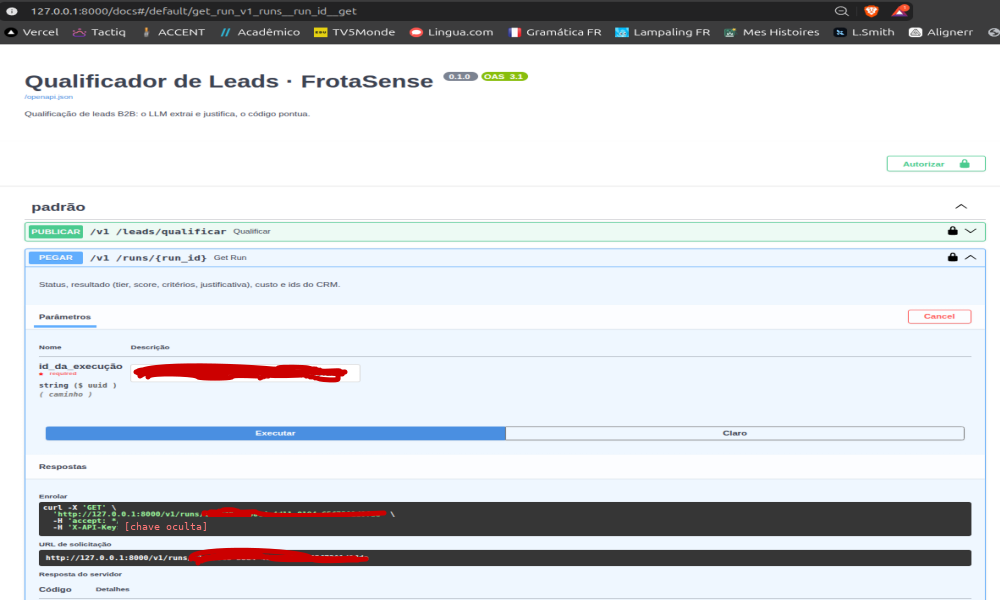
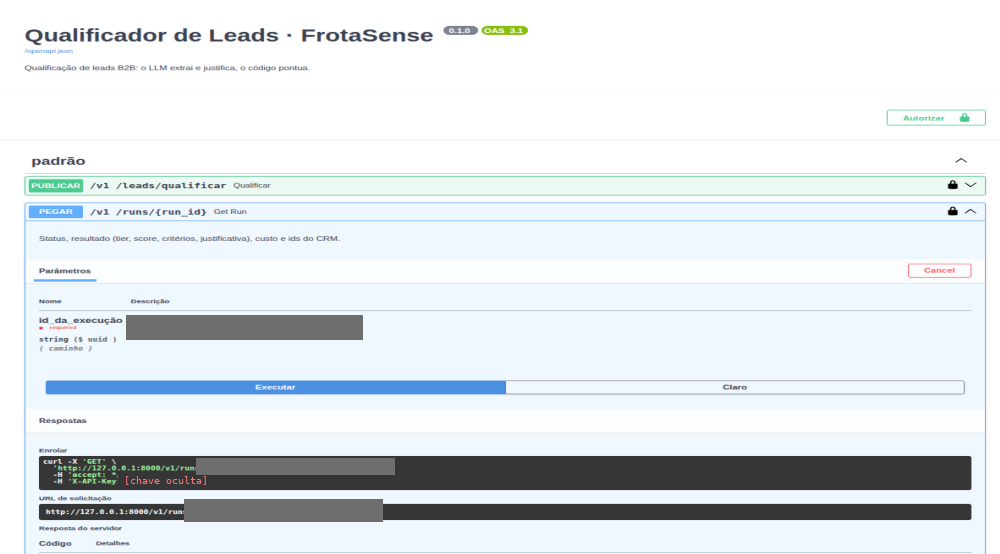
feat(T35): documentação final, imagens recortadas e README testado em clone limpo
Correções da auditoria sobre o DNS rebinding, prints sem hostname, run_id
e IDs do HubSpot, evals/README.md com o aviso do dataset, GIF e
limitações no README e CLAUDE.md apagado. Clone limpo: make check verde
e os 3 comandos do sistema completo funcionando sem gravar no CRM.

Changed region(s): [[0.0, 0.1841, 0.992, 1.0], [0.0, 0.0, 1.0, 0.2148]]

diff --git a/tools_mcp/site.py b/tools_mcp/site.py
@@ -2,8 +2,9 @@
 
 **SSRF:** o domínio vem do lead. Além da validação do `LeadInput`, cada requisição (e cada
 salto de redirect) só segue em `https`, na porta 443, e se o host resolver exclusivamente para
-IPs públicos. Risco residual: DNS rebinding entre a checagem e a conexão; a mitigação completa
-(conectar no IP checado) fica para o container isolado de tools (T19/T20).
+IPs públicos. Risco residual: DNS rebinding entre a checagem e a conexão. Só `https` reduz o
+risco (o IP trocado precisaria de um certificado válido para o domínio), mas conectar no IP
+checado não foi feito (ver `docs/06-seguranca-agentes.md`, riscos residuais).
 
 O conteúdo dos sites é **não confiável**: sai sanitizado e truncado, e o prompt que o consome
 deve delimitá-lo. Domínios `.example` (empresas fictícias) são servidos pelas fixtures da

diff --git a/README.md b/README.md
@@ -51,7 +51,7 @@ Esse desenho já se mostrou útil na prática. Numa execução real da T14, um l
 | | T32: servidor MCP `lead-qualifier` (o agente inteiro como tool) | ✅ |
 | | T33: suíte de ataques, timeout global e revisão de segurança | ✅ |
 | I. Resultado final | T34: avaliação final da configuração da API e análise de erros | ✅ |
-| | T35: documentação final | 🔄 |
+| | T35: documentação final | ✅ |
 | | T36: posts no LinkedIn | ⏳ |
 
 O plano completo, com os 36 passos e seus critérios de aceite, está em [`docs/04-plano-de-tasks.md`](docs/04-plano-de-tasks.md).
@@ -148,6 +148,8 @@ O MCP Inspector v2 não conecta a este servidor, e isso é esperado: ele roda no
 
 ## Demo sem clonar
 
+![Demo offline no terminal: 401 sem chave, 422 quando o cliente tenta mandar o tier e o resultado de 5 leads](docs/linkedin/t22-demo-offline.gif)
+
 O workflow **[Demo offline](https://github.com/narcelioferreira/lead-qualifier/actions/workflows/demo.yml)** roda a API e o grafo de verdade no GitHub Actions, sem secrets e sem rede, e publica o resultado no *Job Summary*: o tier de cada lead ao lado do rótulo humano, os critérios, a justificativa, o 401 sem chave e o 422 quando o cliente tenta mandar o próprio tier. **[Última execução](https://github.com/narcelioferreira/lead-qualifier/actions/runs/40022574667)** (16 s, concordância de 4/5 com o rótulo humano). As respostas da Groq, da Tavily e dos sites de 5 leads do split dev foram gravadas uma vez (`evals/demo/cassette.json`, com e-mails removidos) e são reproduzidas na demo. A rubrica, as regras, o detector de injeção e o saneamento rodam a cada execução, e um audit hook do Python bloqueia qualquer conexão fora do loopback.
 
 ```bash
@@ -227,6 +229,13 @@ O custo é **equivalente**, pelo preço de lista: as rodadas usaram o plano grat
 - **A configuração da API foi medida na T34**, com rodada única no test depois de congelada: 60,0% / κ 0,610, 4/4 ataques desqualificados (3 pela regra, sem LLM) e nenhum lead legítimo barrado (0/26). No dev, onde os prompts foram calibrados, ela fez 95,0%. O erro mais comum é B → A (5 de 9 leads B), e a análise de cada divergência está em [`05-final.md`](evals/reports/05-final.md). As outras linhas não valem para a API, que não usa a pesquisa agêntica, o próximo passo nem o roteamento.
 - Análise de erros e decisões no [CHANGELOG](docs/CHANGELOG.md).
 
+**Limitações da avaliação:**
+- **Amostra pequena:** 30 leads no test, com intervalos de confiança largos (cada lead vale 3,3 pontos percentuais) e só 4 ataques.
+- **Anotador único:** sem um segundo rotulador, não há kappa humano de referência. Metade dos erros da configuração final está em leads que o próprio gabarito marca como incertos.
+- **Setor sem CNAE:** nas empresas reais do test, o CNAE não apareceu nas evidências, e o setor veio da classificação do LLM. O código só fixa o setor quando acha o CNAE ([`05-final.md`](evals/reports/05-final.md)).
+- **Evidência variável:** a busca e os sites são reais. Outra execução pode trazer outra evidência e outro tier.
+- **Plano gratuito:** latência e limites da Groq não representam produção. O custo é o equivalente pelo preço de lista.
+
 Os relatórios ficam em [`evals/reports/`](evals/reports/): [`01-baseline.md`](evals/reports/01-baseline.md), [`02-mvp.md`](evals/reports/02-mvp.md), [`03-rag.md`](evals/reports/03-rag.md), [`04-routing.md`](evals/reports/04-routing.md), [`05-final.md`](evals/reports/05-final.md) e as rodadas do dev em [`dev/`](evals/reports/dev/).
 
 **Auditoria de tokens (T16): runner × painel da Groq**
@@ -275,7 +284,7 @@ O modelo de ameaças completo, o mapeamento AST, os testes por controle e os ris
 - um lead forjado com o domínio de um cliente real ainda troca as propriedades `ai_*` e acrescenta uma Note nesse registro. Por isso a API exige chave, só escuta em loopback e **não deve ser ligada a um formulário público** sem antes confirmar a posse do e-mail e impedir a sobrescrita sem revisão;
 - CNAE que só o lead declarou tem certeza média, mas ainda soma os pontos do setor;
 - o filtro de saída não cobre tudo (CPF, telefone fixo sem DDD, 0800, domínio com acento);
-- DNS rebinding entre a checagem de IP e a conexão;
+- DNS rebinding entre a checagem de IP e a conexão, reduzido pelo `https` obrigatório (o IP trocado precisaria de um certificado válido para o domínio);
 - a mensagem do lead é processada por um provedor externo (Groq).
 
 Os detalhes estão no documento 06.
@@ -404,5 +413,5 @@ docs/                     arquitetura, negócio, ontologia, contratos, plano, se
 | [ADRs](docs/adr/README.md) | As 7 decisões de arquitetura, com contexto, consequências e alternativas |
 | [CHANGELOG](docs/CHANGELOG.md) | O que foi feito em cada task, decisões e problemas corrigidos |
 
-> **Sobre o dataset:** as empresas são reais e públicas; cargos, mensagens e e-mails são inventados. As mensagens foram escritas com apoio do Claude (Anthropic), um modelo diferente dos usados pelo agente (gpt-oss, via Groq), para evitar o viés de o modelo avaliar o próprio texto.
+> **Sobre o dataset:** as empresas são reais e públicas; cargos, mensagens e e-mails são inventados (ver [`evals/README.md`](evals/README.md)). As mensagens foram escritas com apoio do Claude (Anthropic), um modelo diferente dos usados pelo agente (gpt-oss, via Groq), para evitar o viés de o modelo avaliar o próprio texto.
 

diff --git a/evals/README.md b/evals/README.md
@@ -1,0 +1,49 @@
+# Avaliação
+
+Dataset, gabarito, runner, métricas e relatórios da avaliação do agente.
+
+## Aviso sobre o dataset
+
+**As empresas do dataset são reais e públicas, mas os leads são inventados.** Nenhuma dessas empresas entrou em contato com a FrotaSense, que também é fictícia.
+
+- **Inventados:** cargo, mensagem e e-mail de cada lead. Os e-mails usam o domínio reservado `example.com`.
+- **Reais:** nome e domínio da empresa, usados para que a pesquisa do agente encontre dados públicos de verdade.
+- **As mensagens não descrevem fatos sobre as empresas.** Quando uma mensagem fala de um problema operacional (por exemplo, autuações, custo de combustível ou troca de fornecedor), o problema foi inventado para testar o agente e não diz nada sobre a empresa citada.
+- **Três empresas são fictícias** (L018, L030 e L037), com domínio `.example` e site simulado por fixtures em `fixtures/companies/`, sem rede.
+- **As mensagens foram escritas com apoio do Claude** (Anthropic), um modelo diferente dos usados pelo agente (`gpt-oss`, via Groq), para evitar que o modelo avalie o próprio texto.
+
+As fontes públicas e o protocolo de montagem estão em [`docs/05-fontes-do-dataset.md`](../docs/05-fontes-do-dataset.md).
+
+## O que tem aqui
+
+| Arquivo ou pasta | Conteúdo |
+|---|---|
+| `dataset.jsonl` | Os 50 leads (20 de dev e 30 de test), com grupo esperado e tags de caso difícil e de ataque |
+| `labels.jsonl` | Gabarito da rotulagem humana (T09), feita pelo autor com a rubrica. **O agente nunca lê este arquivo** |
+| `annotations/` | Rotulagem bruta do autor e a revisão cega do próximo passo (T26) |
+| `fixtures/companies/` | Sites simulados das três empresas fictícias |
+| `run.py` | Runner: roda uma configuração num split e grava uma linha por lead em `runs/`, com retomada (`--resume`) |
+| `metrics.py` | Acurácia, kappa ponderado, matriz de confusão, IC 95% por bootstrap, custo e latência |
+| `compare.py` | Duas configurações nos mesmos leads: diferença pareada e McNemar exato |
+| `judge.py` | LLM-as-judge do próximo passo (T26) e a concordância com a revisão do autor |
+| `guardrail_bench.py`, `guardrail_set.jsonl` | Benchmark do guardrail (T28) |
+| `kb_eval.py`, `kb_questions.jsonl` | Hit rate da busca na base de conhecimento (T24) |
+| `demo.py`, `demo/cassette.json` | Demo offline, com as respostas gravadas de 5 leads do dev |
+| `runs/` | Previsões de cada rodada (JSONL) |
+| `reports/` | Relatórios em Markdown. O resultado final está em [`reports/05-final.md`](reports/05-final.md) |
+
+## Regras
+
+- **O split test só roda nas tasks de avaliação** (T16, T27, T30 e T34), uma vez por configuração, e exige `--confirm-test`. Todo ajuste de prompt é feito no dev.
+- **O gabarito é do autor.** Nenhum código gera nem altera `labels.jsonl`.
+- **Todo número publicado vem de `reports/`.**
+
+## Como rodar
+
+```bash
+uv run python -m evals.run --split dev --config mvp --prompt-version v2   # gasta cota da Groq
+uv run python -m evals.compare evals/runs/A.jsonl evals/runs/B.jsonl --out evals/reports/A-vs-B.md
+uv run python -m evals.demo                                               # offline, sem rede
+```
+
+Retomar uma rodada completa com `--resume` não chama a Groq: o runner pula os leads já feitos e só gera o relatório de novo.

diff --git a/docs/CHANGELOG.md b/docs/CHANGELOG.md
@@ -1008,3 +1008,11 @@ Corrige as 9 lacunas em `xfail` e os filtros que esperavam o fim da T30. Nenhum 
 - **Reprodução:** retomar o arquivo completo gerou o mesmo relatório, sem nenhum passo novo em `agent_steps` e com o SHA-256 das previsões inalterado.
 - **Gabarito:** não alterado. Os casos L003, L016, L023 e L044 ficam para conferência do autor; qualquer revisão depois do test precisa ser registrada como tal, e o número oficial continua 60,0%.
 - **README:** linha `api` na tabela de resultados, T34 concluída, SSRF com a ressalva do DNS rebinding, diagramas e contagem de testes (1.152) corrigidos.
+
+## T35 (parte 2): documentação final
+- **Correções da auditoria:** `tools_mcp/site.py`, `docs/06-seguranca-agentes.md`, `docs/00-arquitetura.md` e o README deixam de dizer que a conexão no IP checado ficou para a T19/T20. O DNS rebinding segue como risco residual, reduzido pelo `https` obrigatório da T33 (o IP trocado precisaria de um certificado válido para o domínio). A linha do SSRF no README passou de "bloqueado" para "checado", com a ressalva.
+- **Imagens:** `t22-smoke.png` recortado sem `usuário@hostname` na barra de título e nos prompts, com o `run_id` e os IDs do HubSpot cobertos por blocos sólidos (o rabisco anterior deixava caracteres legíveis). `t22-docs-run.png` sem a barra de favoritos, com o `run_id` coberto por blocos sólidos nos três lugares. A GIF foi conferida quadro a quadro (28 quadros, todos renderizados, sem hostname nem IDs), e o print do HubSpot não mostra ID de portal nem de registro.
+- **`evals/README.md`:** aviso de que as empresas são reais e os leads, inventados (as mensagens não descrevem fatos sobre as empresas), mais o mapa da pasta e as regras do split test e do gabarito. A L012 fica no dataset como está.
+- **README:** GIF da demo offline, seção de limitações da avaliação, link para o `evals/README.md` e T35 concluída.
+- **Clone limpo:** `git clone` do commit da T34, todos os 25 links locais do README resolvidos, `uv sync --frozen`, `make check` verde (1.152 testes), demo offline sem `.env` e sem rede. Com o `.env` montado do `.env.example`, preenchendo só as variáveis que o README lista, os 3 comandos do sistema completo funcionaram: `/health` ok, 401 sem chave e L024 tier A, com `API_WRITE_CRM=false` (nada gravado no HubSpot, ~5K tokens da Groq). **Ressalva:** o compose fixa o nome do projeto, então o clone reaproveitou os volumes do Postgres e do Ollama; as imagens foram construídas do clone, mas o banco não era novo.
+- **`CLAUDE.md` apagado**, como previsto. O que ele tinha de público já estava na documentação (escopo nas ADRs, convenções de segurança no doc 06, ciclo das tasks no doc 04, limites da Groq no CHANGELOG, regras do gabarito no `evals/README.md`).

diff --git a/docs/linkedin/t22-docker-demo.md b/docs/linkedin/t22-docker-demo.md
@@ -6,9 +6,9 @@
 - Para provar que a demo é mesmo offline, um *audit hook* do Python bloqueia qualquer conexão fora da própria máquina. Se algum código tentar sair para a internet, a demo quebra.
 - A demo não esconde erro: num dos 5 leads o agente discordou do rótulo humano (B → C), e o relatório mostra isso.
 - 📸 [`t22-demo-offline.gif`](t22-demo-offline.gif): a demo offline no terminal (`uv run python -m evals.demo`), com as linhas reais da saída: 401 sem chave, 422 quando o cliente tenta mandar o tier, os 5 leads e a concordância de 4/5.
-- 📸 [`t22-job-summary.png`](t22-job-summary.png): o Job Summary da demo, renderizado a partir do mesmo Markdown que o workflow grava no `$GITHUB_STEP_SUMMARY` (execução local de `python -m evals.demo --summary`, com a mesma fita do Actions). Não é um print da página do Actions: o repositório é privado, e a página só abre com login.
+- 📸 [`t22-job-summary.png`](t22-job-summary.png): o Job Summary da demo, renderizado a partir do mesmo Markdown que o workflow grava no `$GITHUB_STEP_SUMMARY` (execução local de `python -m evals.demo --summary`, com a mesma fita do Actions). Não é um print da página do Actions, que hoje é pública: o link está no fim desta lista.
 - 📸 Sistema completo em Docker, em prints do autor (no lugar do GIF: o Swagger mostra a `X-API-Key` no `curl` ao executar, e o vídeo gravado não pode ser publicado):
-  - [`t22-smoke.png`](t22-smoke.png): `scripts/smoke_e2e.sh` de ponta a ponta (401 sem chave, L024 tier A, registro conferido no HubSpot);
+  - [`t22-smoke.png`](t22-smoke.png): `scripts/smoke_e2e.sh` de ponta a ponta (401 sem chave, L024 tier A, registro conferido no HubSpot). Recortado na T35: sem `usuário@hostname`, com o `run_id` e os IDs do HubSpot cobertos por blocos sólidos;
   - [`t22-hubspot-note.png`](t22-hubspot-note.png): a empresa Gobor no HubSpot com a Note da qualificação (tier, critérios e justificativa);
-  - [`t22-docs-run.png`](t22-docs-run.png): `GET /v1/runs/{run_id}` no `/docs`, com a linha da chave coberta por um retângulo sólido.
+  - [`t22-docs-run.png`](t22-docs-run.png): `GET /v1/runs/{run_id}` no `/docs`, com a linha da chave coberta por um retângulo sólido. Recortado na T35: sem a barra de favoritos, com o `run_id` coberto por blocos sólidos.
 - Execução da demo no Actions (16 s, sem secrets): https://github.com/narcelioferreira/lead-qualifier/actions/runs/40022574667

diff --git a/docs/06-seguranca-agentes.md b/docs/06-seguranca-agentes.md
@@ -81,7 +81,7 @@ As regras do detector foram escritas com conhecimento geral e os ataques do **de
 | Filtro da saída não cobre: CPF, telefone fixo sem DDD (colide com `2024-2026`), 0800, domínio com acento (`pagaménto.com`) ou com ponto ideográfico. Cita como link o que parece host em minúsculas (`relatorio.pdf`, `p.ex.`) | Note com HTML escapado; nas 80 justificativas do dev guardadas, o filtro novo não mudou nenhuma | Ampliar antes de ligar `next_step=True` na API, se a medição mostrar necessidade |
 | ID da organização da Groq em commits antigos de `evals/runs/` (mensagem do 429; repositório público). Não é credencial: sem a chave da API, ele não dá acesso | Removido da árvore; `app/llm/base.py` tira o ID de toda mensagem de erro; `test_no_organization_id_in_versioned_runs` trava a volta | Decidido em 06/11: o histórico não é reescrito |
 | Lead forjado com o domínio e o e-mail de um cliente real ainda troca as propriedades `ai_*` dele (tier, score, Note). O domínio e o e-mail são autodeclarados | Registro existente não tem nome nem cargo alterados; regra K1 não grava; e-mail fora do domínio não associa e a Note avisa; a API exige chave e só escuta em loopback | **Antes de ligar um formulário público:** confirmar a posse do e-mail e não sobrescrever a avaliação de registro existente sem revisão |
-| DNS rebinding entre a checagem de IP e a conexão | Checagem em cada salto | Conectar no IP checado, no container isolado de tools (T19) |
+| DNS rebinding entre a checagem de IP e a conexão | Checagem em cada salto e só `https` (T33): o IP trocado precisaria de um certificado válido para o domínio | Conectar no IP checado. Previsto para a T19/T20, não foi feito |
 | Mensagem e nome da empresa são processados pela Groq (terceiro, fora do Brasil) | E-mail **não** é enviado ao LLM; nada é armazenado na Groq pelo cliente. O SLM local foi avaliado na T28 e não atingiu a meta em CPU (ADR 0006) | Registrar a base legal (LGPD); reavaliar o SLM com GPU ou modelo de guarda |
 | Classificação errada de setor leva a desqualificação (K6) | Prompt v2 exige evidência para `out`; CNAE só vale se aparecer nas evidências | Medição no test e revisão humana (T31) |
 | Gabarito com um único anotador | Rubrica explícita e justificativa por lead | Segundo anotador e kappa humano |

diff --git a/docs/00-arquitetura.md b/docs/00-arquitetura.md
@@ -200,7 +200,7 @@ Autenticação por header `X-API-Key`. Documentação OpenAPI automática.
 - Guardrail de entrada (regras + mini, T28) antes da pesquisa e da extração: lead com injeção ou spam não gera busca na web nem chamada de extração.
 - Pesquisa limitada a dados públicos da **empresa**: sem scraping de LinkedIn e sem enriquecimento de dados pessoais. A mensagem do lead vai à Groq (o e-mail, não); manter o texto só no SLM local foi avaliado na T28 e descartado, porque nenhum SLM de 1B a 4B atingiu a meta do guardrail em CPU.
 - Segredos em `.env`, nunca versionados. Containers com usuário não-root.
-- **SSRF na busca de sites:** cada requisição e cada redirect só seguem em `https`, na porta 443, se o host resolver apenas para IPs públicos (sem credenciais, até 5 MB de HTML). Risco residual: DNS rebinding entre a checagem e a conexão, a mitigar no container isolado de tools.
+- **SSRF na busca de sites:** cada requisição e cada redirect só seguem em `https`, na porta 443, se o host resolver apenas para IPs públicos (sem credenciais, até 5 MB de HTML). Risco residual: DNS rebinding entre a checagem e a conexão, reduzido pelo `https` obrigatório (o IP trocado precisaria de um certificado válido para o domínio). Conectar no IP checado não foi feito.
 
 ---
 
